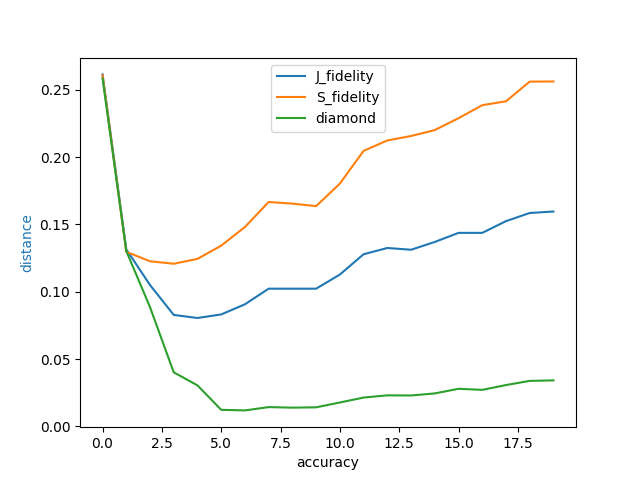
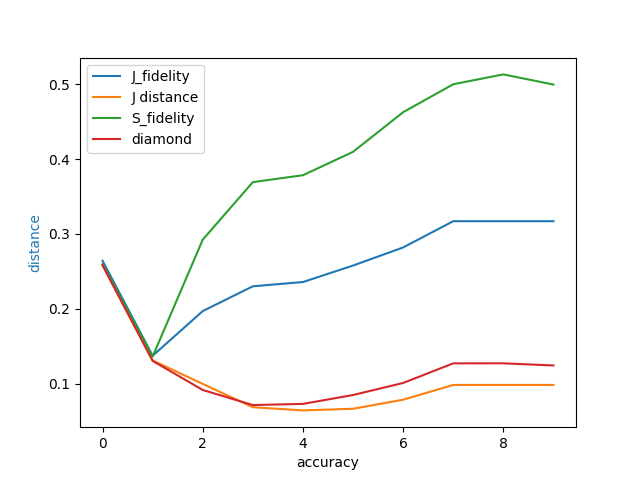
J distance can be computed for a circuit

diff --git a/where_to_stop.py b/where_to_stop.py
@@ -1,5 +1,6 @@
 import approximations
 import J_fidelity
+import J_distance
 import S_fidelity
 import diamond_distance
 import numpy as np
@@ -20,11 +21,18 @@ def plot_distances(circuits: Iterable[Iterable[Any]], U: np.ndarray, noise_stren
     start = time.time()
     J_fidelities = [(2 - 2 * J_fidelity.f_pro_experimental(c, U, p1, gamma1, gamma2) ** 0.5) ** 0.5 for c in circuits]
     end = time.time()
-    print("The best accuracy for J was: " + str(min(range(max_acc), key=lambda x: J_fidelities[x])))
+    print("The best accuracy for J fidelity was: " + str(min(range(max_acc), key=lambda x: J_fidelities[x])))
     print("It took " + str(end-start) + " seconds")
     print()
 
-    #J_noiseless = [(2 - 2 * J_fidelity.f_pro_experimental(c, U) ** 0.5) ** 0.5 for c in circuits]
+
+    start = time.time()
+    J_distances = [J_distance.j_distance_experimental(c, U, p1=p1, gamma1=gamma1, gamma2=gamma2) for c in circuits]
+    end = time.time()
+    print("The best accuracy for J distance was: " + str(min(range(max_acc), key=lambda x: J_distances[x])))
+    print("It took " + str(end-start) + " seconds")
+    print()
+
 
     # This may take a few seconds
     start = time.time()
@@ -43,13 +51,14 @@ def plot_distances(circuits: Iterable[Iterable[Any]], U: np.ndarray, noise_stren
     print()
 
     fig, ax1 = plt.subplots()
-    lineJ, = ax1.plot(J_fidelities)
+    line_jf, = ax1.plot(J_fidelities)
+    line_jd, = ax1.plot(J_distances)
     lineS, = ax1.plot(S_fidelities)
     lineD, = ax1.plot(diamond_distances)
 
     ax1.set_ylabel('distance', color='tab:blue')
     ax1.set_xlabel('accuracy')
-    ax1.legend((lineJ, lineS, lineD), ("J_fidelity", "S_fidelity", "diamond"))
+    ax1.legend((line_jf, line_jd, lineS, lineD), ("J_fidelity", "J distance", "S_fidelity", "diamond"))
     plt.savefig("dist.png")
 
 
@@ -76,6 +85,7 @@ def plot_fidelities(circuits: Iterable[Iterable[Any]], U: np.ndarray, noise_stre
     print("gradient for J is "+str(params1[1]))
     print()
 
+    start=time.time()
     S_fidelities = [S_fidelity.experimental(c, U, 100, p1=p1, gamma1=gamma1, gamma2=gamma2) for c in circuits]
     end = time.time()
     print("The best accuracy for S was: " + str(min(range(max_acc), key=lambda x: S_fidelities[x])))
@@ -93,9 +103,7 @@ def plot_fidelities(circuits: Iterable[Iterable[Any]], U: np.ndarray, noise_stre
 
     plt.figure()
     lineJ2, = plt.plot(lengths, J_noiseless)
-
     lineJ, = plt.plot(lengths, J_fidelities)
-
     lineS, = plt.plot(lengths, S_fidelities)
 
     plt.xlabel('Circuit length')
@@ -105,7 +113,7 @@ def plot_fidelities(circuits: Iterable[Iterable[Any]], U: np.ndarray, noise_stre
     return
 
 
-max_acc = 20
+max_acc = 10
 
 
 theta = math.pi/3
@@ -118,6 +126,6 @@ U = np.array([[complex(math.cos(theta / 2), - math.sin(theta / 2)), 0],
               [0, complex(math.cos(theta / 2), math.sin(theta / 2))]])
 # U = np.eye(2)
 
-plot_distances(circuits, U, 1e-4)
+plot_distances(circuits, U, 1e-3)
 # plot_fidelities(circuits, U, 1e-4)
 

diff --git a/J_distance.py b/J_distance.py
@@ -1,7 +1,8 @@
 import numpy as np
 from scipy.linalg import sqrtm
-from density_runner import apply_channel
-from typing import Iterable
+from density_runner import apply_channel, ops
+from typing import Iterable, Any, Dict, Optional
+from noise import depolarising_channel, amplitude_damping_channel, phase_damping_channel
 
 
 def trace_norm(m1: np.ndarray, m2: np.ndarray) -> float:
@@ -20,6 +21,35 @@ def jamiolkowski(channel: Iterable[np.ndarray]) -> np.ndarray:
 
 def j_distance(channel1: Iterable[np.ndarray], channel2: Iterable[np.ndarray]) -> float:
     return trace_norm(jamiolkowski(channel1), (jamiolkowski(channel2)))
+
+
+def circuit_to_jamiolkowski(circuit_description: Iterable[Any], circuit_key: Optional[Dict[Any, np.ndarray]] = None, *,
+                            n_qubits: int = 1, p1: float = 0, gamma1: float = 0, gamma2: float = 0) -> np.ndarray:
+    if circuit_key is None:
+        circuit_key = ops
+    d = 2 ** n_qubits
+
+    depolarising = depolarising_channel(p1, n_qubits=n_qubits)
+    amplitude_damping = amplitude_damping_channel(gamma1, n_qubits=n_qubits)
+    phase_damping = phase_damping_channel(gamma2, n_qubits=n_qubits)
+
+    phi = sum([np.kron(c, c) for c in np.eye(d)])
+    rho = np.outer(phi, phi) / d
+    for j in circuit_description[::-1]:
+        u = circuit_key[j]
+        rho = apply_channel([np.kron(u, np.eye(d))], rho)
+        rho = apply_channel([np.kron(e, np.eye(d)) for e in depolarising], rho)
+        rho = apply_channel([np.kron(e, np.eye(d)) for e in amplitude_damping], rho)
+        rho = apply_channel([np.kron(e, np.eye(d)) for e in phase_damping], rho)
+    return rho
+
+
+def j_distance_experimental(circuit_description: Iterable[Any], unitary: np.ndarray,
+                            circuit_key: Optional[Dict[Any, np.ndarray]] = None, *,
+                            n_qubits: int = 1, p1: float = 0, gamma1: float = 0, gamma2: float = 0,) -> float:
+    return trace_norm(circuit_to_jamiolkowski(circuit_description, circuit_key, n_qubits=n_qubits, p1=p1, gamma1=gamma1,
+                                              gamma2=gamma2),
+                      jamiolkowski([unitary]))
 
 # "so far as we are aware, experimentally determining D_pro requires doing full process
 # tomography, which for a d-dimensional quantum system
